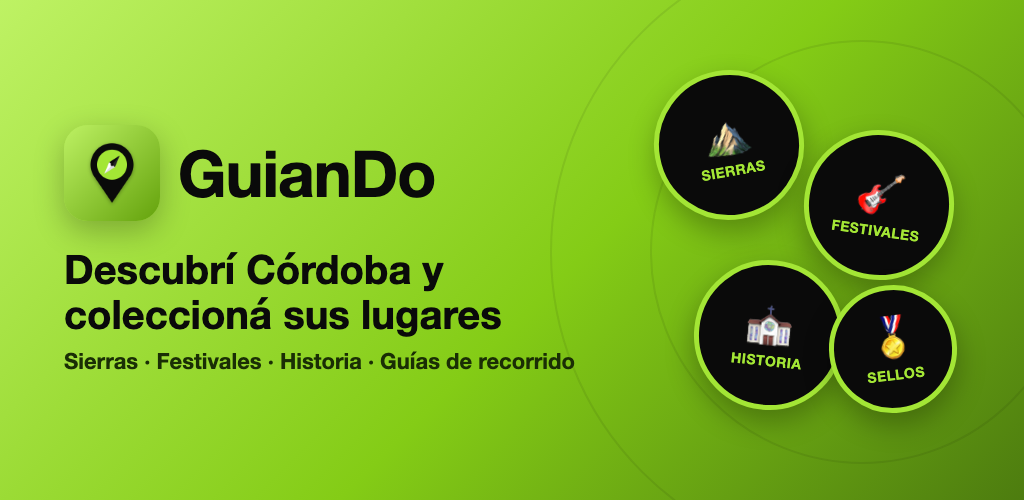
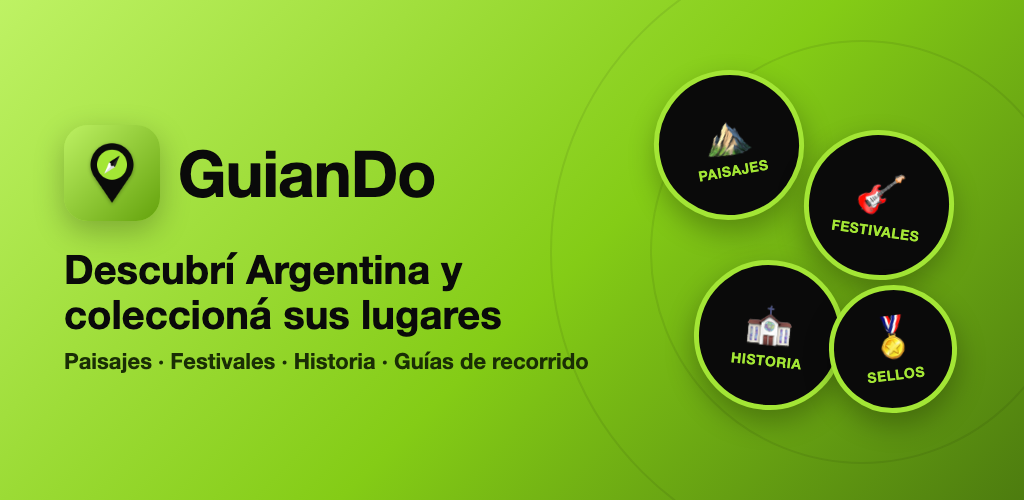
Frame the store listing for all of Argentina
GuianDo covers the whole country; Córdoba is the first region with
content. Title, short and full description, feature graphic and release
notes now say so.

Changed region(s): [[0.0625, 0.69, 0.5938, 0.75], [0.2188, 0.51, 0.4688, 0.6], [0.6875, 0.3, 0.75, 0.36]]

diff --git a/store-listing/feature-graphic.html b/store-listing/feature-graphic.html
@@ -23,11 +23,11 @@
   <div class="ring r1"></div><div class="ring r2"></div>
   <div class="left">
     <div class="brand"><img src="icon.png" alt=""><div class="name">GuianDo</div></div>
-    <h1>Descubrí Córdoba y coleccioná sus lugares</h1>
-    <p>Sierras · Festivales · Historia · Guías de recorrido</p>
+    <h1>Descubrí Argentina y coleccioná sus lugares</h1>
+    <p>Paisajes · Festivales · Historia · Guías de recorrido</p>
   </div>
   <div class="stamps">
-    <div class="st a"><b>⛰</b><span>SIERRAS</span></div>
+    <div class="st a"><b>⛰</b><span>PAISAJES</span></div>
     <div class="st b"><b>🎸</b><span>FESTIVALES</span></div>
     <div class="st c"><b>⛪</b><span>HISTORIA</span></div>
     <div class="st d"><b>🏅</b><span>SELLOS</span></div>

diff --git a/store-listing/textos.md b/store-listing/textos.md
@@ -1,34 +1,37 @@
 # Ficha de Google Play — GuianDo 1.1
 
+GuianDo es para toda Argentina; Córdoba es la primera región con contenido cargado.
+
 ## Título (máx. 30)
-GuianDo: Turismo en Córdoba
+GuianDo: Turismo en Argentina
 
 ## Descripción breve (máx. 80)
-Lugares, festivales y guías de Córdoba. Coleccioná sellos de lo que visitás.
+Lugares, festivales y guías de Argentina. Coleccioná sellos de lo que visitás.
 
 ## Descripción completa (máx. 4000)
-🧭 GuianDo es tu guía para descubrir Córdoba: sierras, pueblos, museos, festivales, ferias y los mejores lugares para comer, dormir y pasear. Todo con fotos, historia y datos útiles para tu visita.
+🧭 GuianDo es tu guía para descubrir Argentina: sierras, pueblos, museos, festivales, ferias y los mejores lugares para comer, dormir y pasear, con fotos, historia y datos útiles para tu visita. Lo arma una comunidad de viajeros, vecinos y emprendedores de todo el país.
 
 🏅 COLECCIONÁ SELLOS DE LOS LUGARES QUE VISITÁS
-Cuando llegás a un lugar, abrí su ficha y recolectá su sello. Cada sello queda en "Lugares visitados", ordenado por categoría, y podés compartir tu colección como imagen. En festivales como Cosquín, Jesús María o Cosquín Rock hay un sello por cada edición, que solo se consigue durante los días del evento.
+Cuando llegás a un lugar, abrí su ficha y recolectá su sello. Cada sello queda en "Lugares visitados", ordenado por categoría, y podés compartir tu colección como imagen. En los festivales hay un sello por cada edición, que solo se consigue durante los días del evento.
 
-📍 MÁS DE 100 LUGARES DE CÓRDOBA
+📍 EMPEZAMOS POR CÓRDOBA
+Ya hay más de 100 lugares de Córdoba y seguimos sumando provincias:
 • Naturaleza y trekking: Champaquí, Uritorco, Los Gigantes, Quebrada del Condorito, cascadas, miradores, diques y balnearios.
 • Historia y cultura: Manzana y Estancias Jesuíticas (Patrimonio de la Humanidad), museos, teatros, capillas y pueblos coloniales.
 • Cuevas y experiencias: Cavernas El Sauce, Grutas de Ongamira, Tren de las Sierras, aerosillas y más.
-• Festivales y ferias, con su fecha: Cosquín, Doma y Folklore de Jesús María, Peñas de Villa María, Oktoberfest de Villa General Belgrano, Colectividades de Alta Gracia, Feria de Villa de Las Rosas y muchos más.
+• Festivales y ferias, con su fecha: Cosquín, Doma y Folklore de Jesús María, Cosquín Rock, Peñas de Villa María, Oktoberfest de Villa General Belgrano y muchos más.
 • Compras: shoppings, galerías y paseos comerciales.
 
 🗺 GUÍAS DE RECORRIDO
-Rutas armadas para seguir paso a paso: el casco histórico de Córdoba a pie, la Ruta de las Estancias Jesuíticas, trekking por las sierras, cuevas de Punilla, paisajes de Traslasierra por las Altas Cumbres, el norte cordobés y Punilla en familia. También podés crear y compartir tus propias guías.
+Rutas armadas para seguir paso a paso, como el casco histórico de Córdoba a pie, la Ruta de las Estancias Jesuíticas o trekking por las sierras. Creá y compartí tus propias guías de cualquier lugar del país.
 
 📴 FUNCIONA SIN SEÑAL
-GuianDo guarda los lugares cercanos para que puedas seguir explorando en las sierras aunque no tengas datos. Los sellos que recolectes sin conexión se validan solos cuando vuelve la señal.
+GuianDo guarda los lugares cercanos para que puedas seguir explorando aunque no tengas datos. Los sellos que recolectes sin conexión se validan solos cuando vuelve la señal.
 
 🔗 COMPARTÍ LUGARES Y GUÍAS
 Mandale a tus amigos el link de un lugar o de una guía: si tienen GuianDo se abre directo en la app.
 
-🏪 PUBLICÁ TU LUGAR
-¿Tenés un restaurante, un alojamiento, una cervecería o un emprendimiento turístico? Publicalo gratis con fotos, horarios, ubicación y contacto para que te encuentren quienes visitan la zona.
+🏪 PUBLICÁ TU LUGAR, ESTÉS DONDE ESTÉS
+¿Tenés un restaurante, un alojamiento, una cervecería o un emprendimiento turístico en cualquier provincia? Publicalo gratis con fotos, horarios, ubicación y contacto para que te encuentren quienes visitan la zona.
 
-GuianDo es gratis. Descubrí, coleccioná y compartí lo mejor de Córdoba.
+GuianDo es gratis. Descubrí, coleccioná y compartí lo mejor de Argentina.
